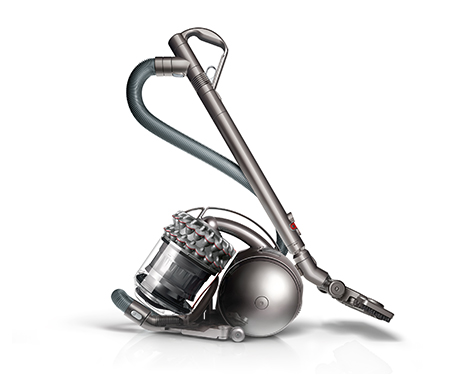
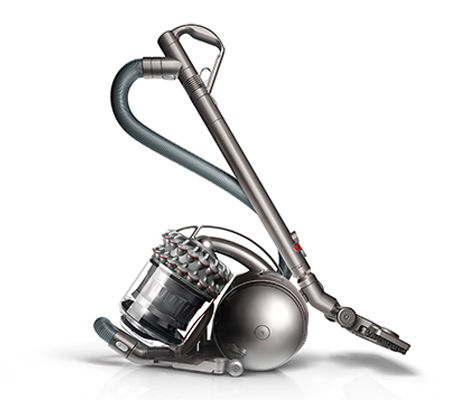
Finished new hero images.

Changed region(s): [[0.1505, 0.0587, 0.9032, 0.968]]

diff --git a/app/styles/_cylinders.scss b/app/styles/_cylinders.scss
@@ -65,7 +65,7 @@
                      }
             }
             .dc-33-origin-plus {
-                
+
                     span {
                         width:114px;
                         @extend .cylinders-thumb-dc33-origin-plus;
@@ -79,6 +79,9 @@
             }
         }
     }
+    .product-image {
+        margin:20px 0;
+    }
     // Product variant information
     .dc-52-animal-complete {
         .model {
@@ -89,7 +92,7 @@
         .product-image {
             background-image:url(../images/cylinders/dc52_animal.jpg);
             width:465px;
-            height:375px;
+            height:400px;
         }
         h2.dc-52-animal-complete, h3.dc-52-animal-complete {
             display: block;
@@ -102,6 +105,12 @@
     }
     .dc-52-allergy-musclehead-parquet {
 
+        .product-image {
+            background-image:url(../images/cylinders/DC52_IRSRPU.jpg);
+            width:465px;
+            height:400px;
+        }
+
         h2.dc-52-allergy-musclehead-parquet, h3.dc-52-allergy-musclehead-parquet {
             display: block;
         }
@@ -111,13 +120,13 @@
             }
         }
     }
-    .dc-52-allergy-parquet {
-
-        h2.dc-52-allergy-parquet, h3.dc-52-allergy-parquet {
-            display: block;
-        }
-    }
     .dc-52-allergy-musclehead {
+
+        .product-image {
+            background-image:url(../images/cylinders/DC52_IRSBL.jpg);
+            width:465px;
+            height:400px;
+        }
 
         h2.dc-52-allergy-musclehead, h3.dc-52-allergy-musclehead {
             display: block;
@@ -131,6 +140,12 @@
     }
     .dc-33-allergy {
 
+        .product-image {
+            background-image:url(../images/cylinders/DC33c_IRSRIBL2.jpg);
+            width:465px;
+            height:400px;
+        }
+
         h2.dc-33-allergy, h3.dc-33-allergy {
             display: block;
         }
@@ -142,11 +157,34 @@
     }
     .dc-33-origin-plus {
 
+        .product-image {
+            background-image:url(../images/cylinders/DC33c_IRMRED.jpg);
+            width:465px;
+            height:400px;
+        }
+
         h2.dc-33-origin-plus, h3.dc-33-origin-plus {
             display: block;
         }
         .tools {
             .combination-tool, .stair-tool, .mattress-tool {
+                display: inline-block;
+            }
+        }
+    }
+    .dc-33-musclehead {
+
+        .product-image {
+            background-image:url(../images/cylinders/DC33c_IRSRIFU2.jpg);
+            width:465px;
+            height:400px;
+        }
+
+        h2.dc-33-allergy, h3.dc-33-allergy {
+            display: block;
+        }
+        .tools {
+            .combination-tool, .stair-tool {
                 display: inline-block;
             }
         }

diff --git a/app/styles/_fans.scss b/app/styles/_fans.scss
@@ -82,6 +82,9 @@
             }
         }
     }
+    .product-image {
+        margin:20px 0;
+    }
     // Product variant information
     .am-05-iron-blue {
         .model {
@@ -90,9 +93,9 @@
             height:59px;
         }
         .product-image {
-            background-image:url(../images/fans/am05_iron_blue.jpg);
+            background-image:url(../images/fans/AM05_IRSBL.jpg);
             width:465px;
-            height:375px;
+            height:400px;
         }
         h2.am-05-iron-blue, h3.am-05-iron-blue {
             display: block;
@@ -100,11 +103,23 @@
     }
     .am-05-black-nickel {
 
+        .product-image {
+            background-image:url(../images/fans/AM05_BLKNK.jpg);
+            width:465px;
+            height:400px;
+        }
+
         h2.am-05-black-nickel, h3.am-05-black-nickel {
             display: block;
         }
     }
     .am-05-white-silver {
+
+        .product-image {
+            background-image:url(../images/fans/AM05_WHSIL.jpg);
+            width:465px;
+            height:400px;
+        }
 
         h2.am-05-white-silver, h3.am-05-white-silver {
             display: block;
@@ -112,17 +127,35 @@
     }
     .am-06-white-silver {
 
+        .product-image {
+            background-image:url(../images/fans/AM06_12_WHSIL.jpg);
+            width:465px;
+            height:400px;
+        }
+
         h2.am-06-white-silver, h3.am-06-white-silver {
             display: block;
         }
     }
     .am-07-black-nickel {
 
+        .product-image {
+            background-image:url(../images/fans/AM07_BLKNK.jpg);
+            width:465px;
+            height:400px;
+        }
+
         h2.am-07-black-nickel, h3.am-07-black-nickel {
             display: block;
         }
     }
     .am-08-white-silver {
+
+        .product-image {
+            background-image:url(../images/fans/AM08.jpg);
+            width:465px;
+            height:400px;
+        }
 
         h2.am-08-white-silver, h3.am-08-white-silver {
             display: block;

diff --git a/app/styles/_handhelds.scss b/app/styles/_handhelds.scss
@@ -25,21 +25,20 @@
         }
         .dc-34-origin, .dc-34-animal {
             display:inline-block;
-            margin-bottom:10px;
-            margin-top:30px;
+            margin:10px 0 15px;
                 span {
-                    height:213px;
+                    height:202px;
                     width:168px;
                 }
         }
         .dc-34-origin {
-            margin-left:15px;
+            margin-left:25px;
                 span {
-                    @extend .handhelds-sku-1;
+                    @extend .handhelds-thumb-dc34-origin;
                 }
         }
         .dc-34-animal span {
-            @extend .handhelds-sku-2;
+            @extend .handhelds-thumb-dc34-animal;
         }
     }
     // Product variant information
@@ -50,9 +49,9 @@
             height:59px;
         }
         .product-image {
-            background-image:url(../images/handhelds/dc34_origin.jpg);
+            background-image:url(../images/handhelds/DC34_IRSFU.jpg);
             width:465px;
-            height:373px;
+            height:370px;
         }
         h2.dc-34-origin, h3.dc-34-origin {
             display: block;
@@ -70,9 +69,9 @@
             height:59px;
         }
         .product-image {
-            background-image:url(../images/handhelds/dc34_animal.jpg);
+            background-image:url(../images/handhelds/DC34_IRSRPU2.jpg);
             width:465px;
-            height:373px;
+            height:370px;
         }
         h2.dc-34-animal, h3.dc-34-animal {
             display: block;

diff --git a/app/styles/_cordless.scss b/app/styles/_cordless.scss
@@ -72,9 +72,9 @@
             height:59px;
         }
         .product-image {
-            background-image:url(../images/cordless/dc62_animal.jpg);
+            background-image:url(../images/cordless/DC62_IRNKSPU.jpg);
             width:465px;
-            height:373px;
+            height:400px;
         }
         h2.dc-62-animal, h3.dc-62-animal {
             display: block;
@@ -87,6 +87,12 @@
     }
     .dc-62-uptop {
 
+        .product-image {
+            background-image:url(../images/cordless/DC62_IRNKSPU.jpg);
+            width:465px;
+            height:400px;
+        }
+
         h2.dc-62-uptop, h3.dc-62-uptop {
             display: block;
         }
@@ -98,6 +104,12 @@
     }
     .dc-45-animal-pro {
 
+        .product-image {
+            background-image:url(../images/cordless/DC45_IRNKSBL.jpg);
+            width:465px;
+            height:400px;
+        }
+
         h2.dc-45-animal-pro, h3.dc-45-animal-pro {
             display: block;
         }
@@ -108,6 +120,12 @@
         }
     }
     .dc-35-multifloor {
+
+        .product-image {
+            background-image:url(../images/cordless/DC35_IRSRIBL.jpg);
+            width:465px;
+            height:400px;
+        }
 
         h2.dc-35-multifloor, h3.dc-35-multifloor {
             display: block;

diff --git a/app/scripts/app.js b/app/scripts/app.js
@@ -105,12 +105,12 @@ angular.module('askDysonWebApp', ['pascalprecht.translate', 'ngRoute'])
                     HERO_HEADLINE: 'The highest suction of any handheld',
                     HERO_BUTTON: 'Learn more',
 
-                    PRODUCT_1_NAME: 'DC34 Animal',
-                    PRODUCT_1_PRICE: '€379',
+                    PRODUCT_1_NAME: 'DC34 Origin',
+                    PRODUCT_1_PRICE: '€279',
                     PRODUCT_1_TAGLINE: '15 minutes of high powerful suction that doesn’t fade.',
 
-                    PRODUCT_2_NAME: 'DC34 Origin',
-                    PRODUCT_2_PRICE: '€279',
+                    PRODUCT_2_NAME: 'DC34 Animal',
+                    PRODUCT_2_PRICE: '€379',
                     PRODUCT_2_TAGLINE: '2 15 minutes of high powerful suction that doesn’t fade.',
 
                     ALL_DYSONS_HAVE: 'All Dyson handheld vacuums have',

diff --git a/app/styles/_sprite.scss b/app/styles/_sprite.scss
@@ -36,8 +36,8 @@
 /* Handhelds */
 .handhelds-hygenic { @include handhelds-sprite(panel5); }
 .handhelds-dc34-origin-sku { @include handhelds-sprite(dc34_origin_sku); }
-.handhelds-sku-1 { @include handhelds-sprite(sku1); }
-.handhelds-sku-2 { @include handhelds-sprite(sku2); }
+.handhelds-thumb-dc34-origin { @include handhelds-sprite(thumb_dc34_origin); }
+.handhelds-thumb-dc34-animal { @include handhelds-sprite(thumb_dc34_animal); }
 
 /* Tools */
 .tools-crevice { @include tools-sprite(tool1); }
